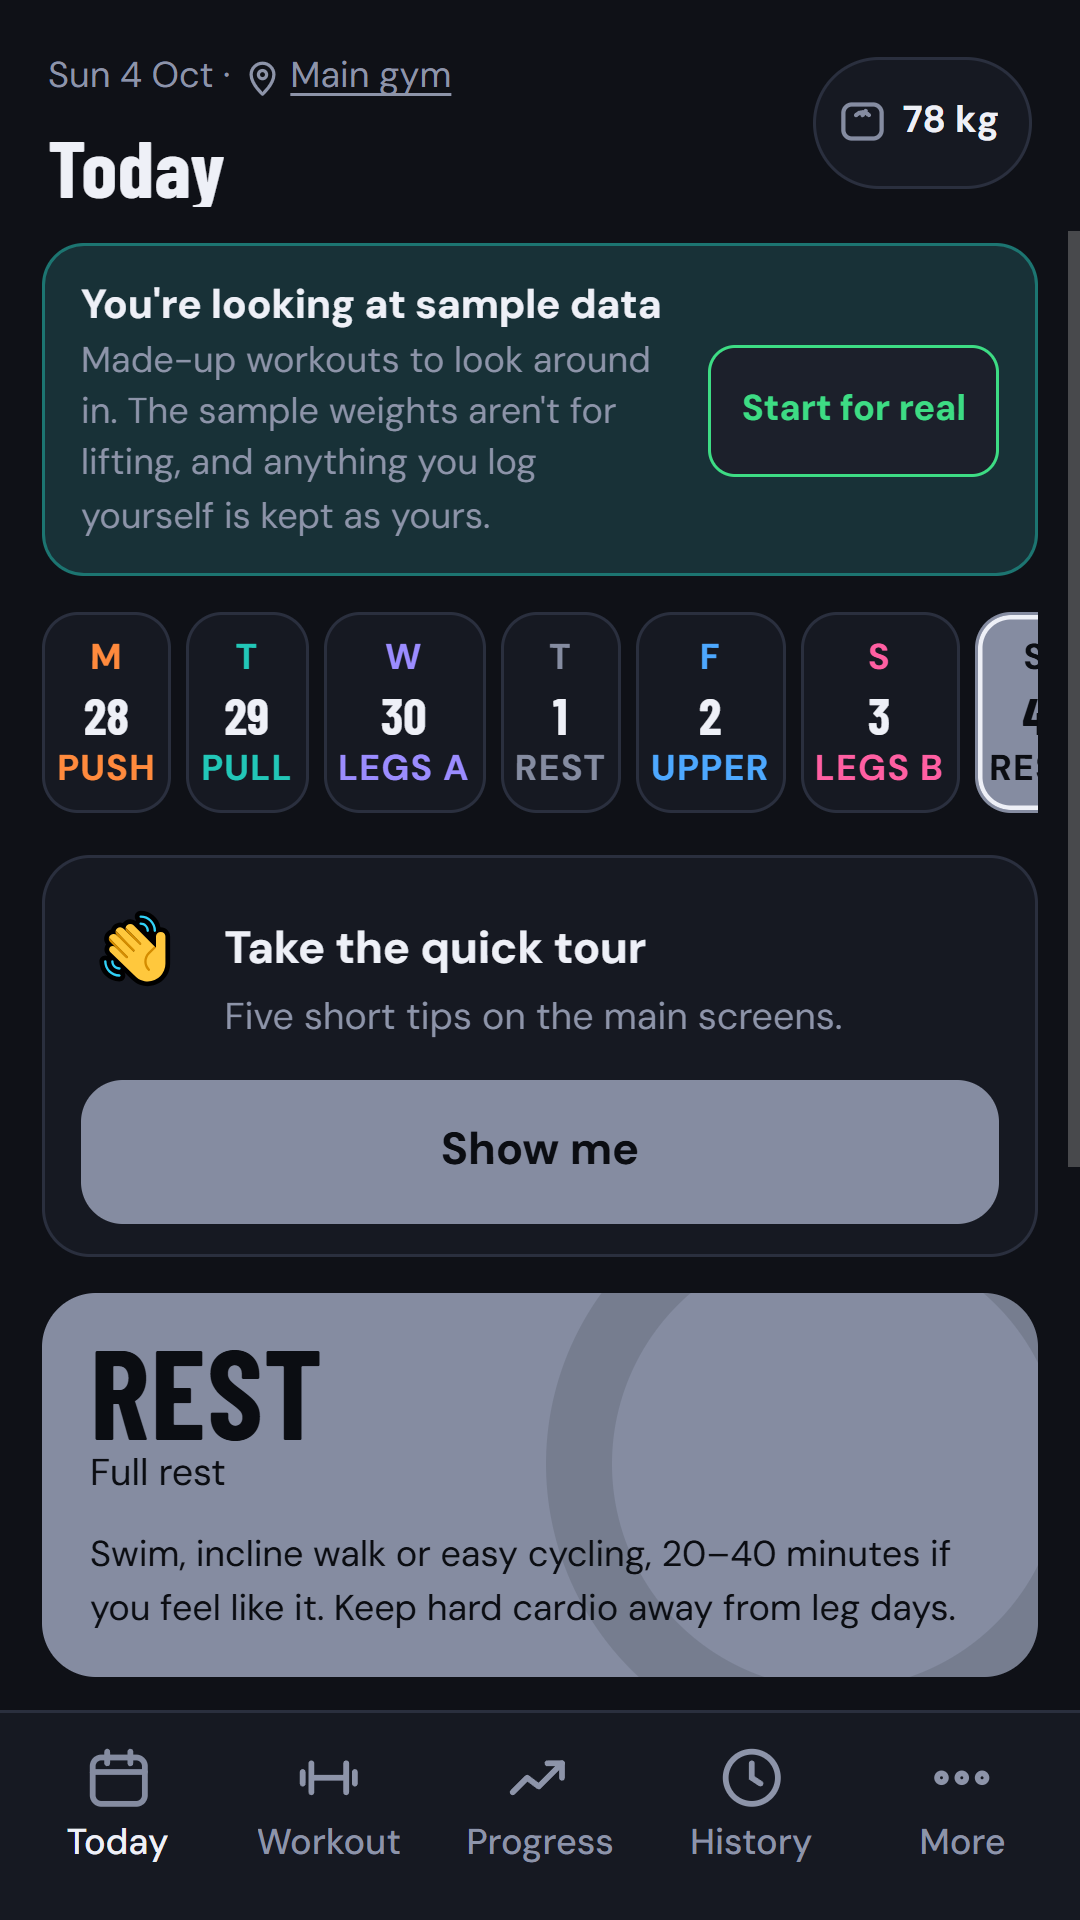
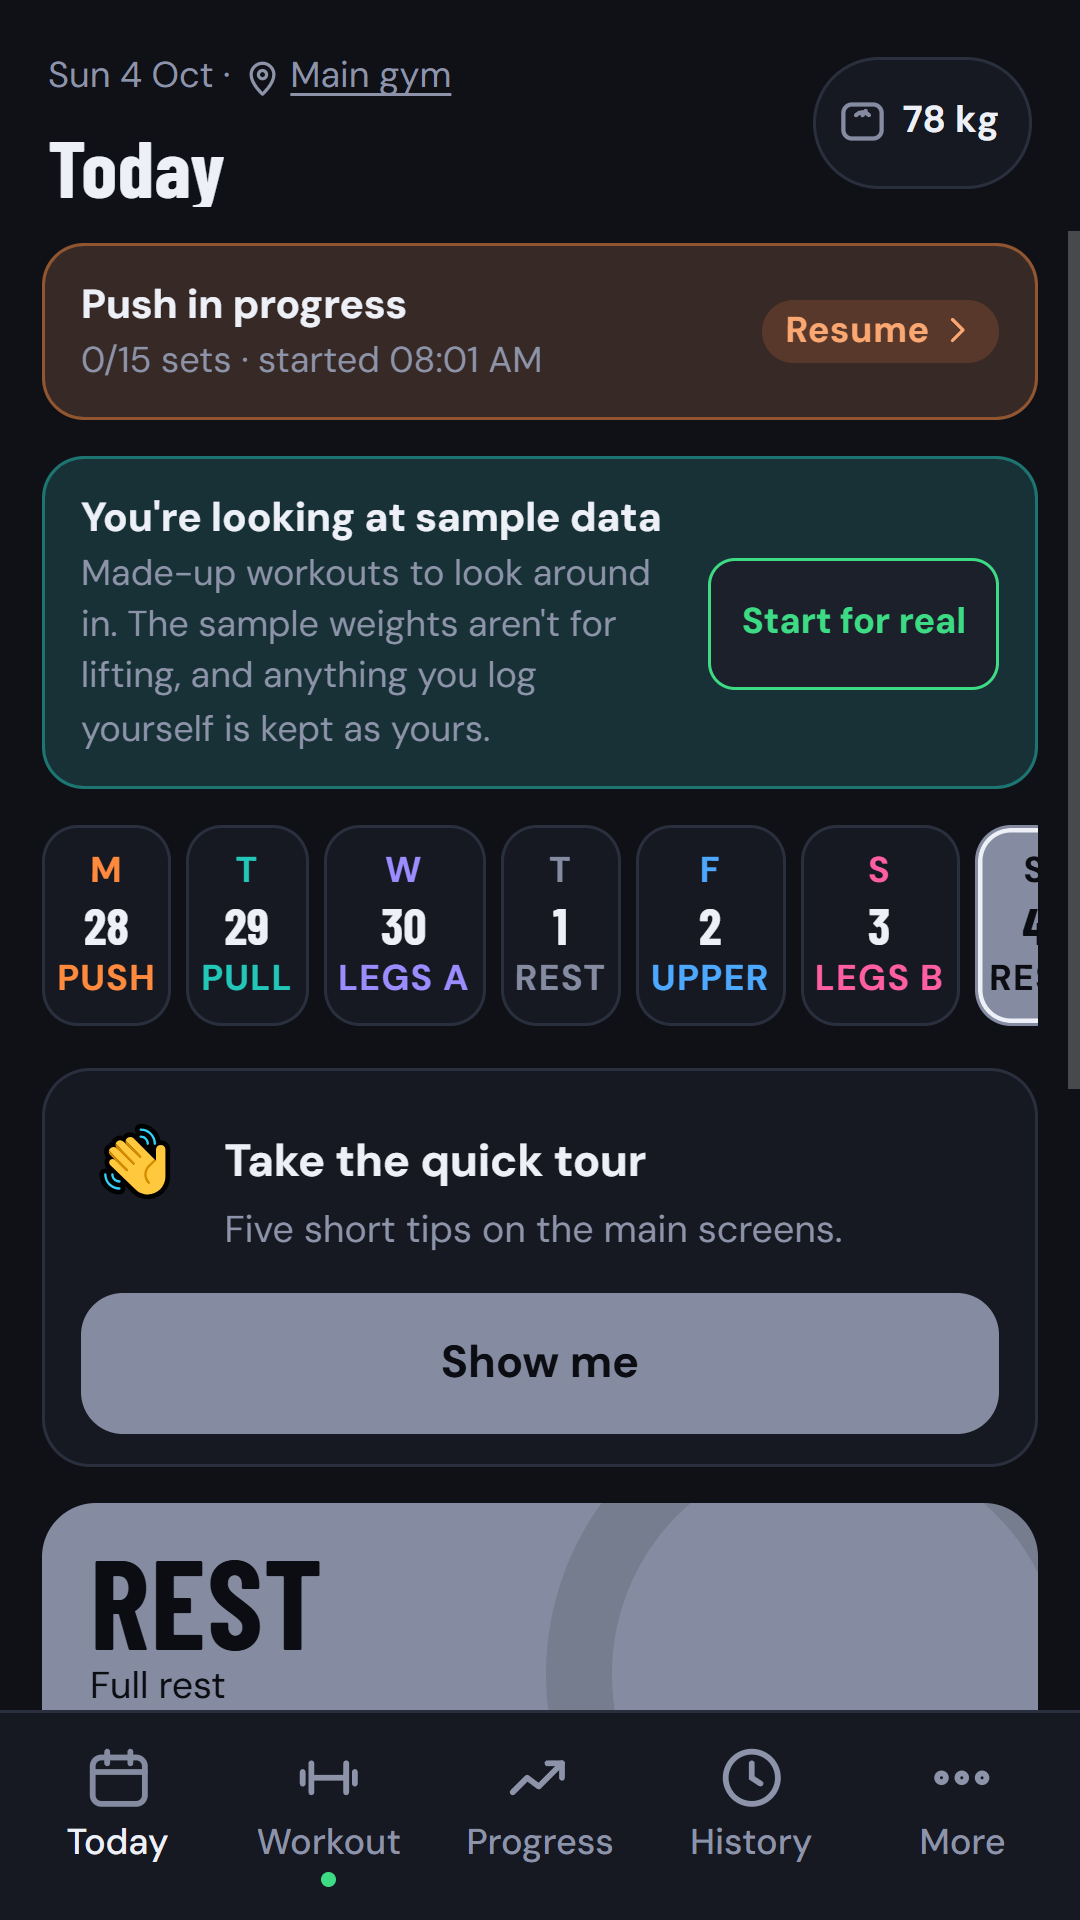
Prepare localized Play screenshots and Claude resume guide

diff --git a/js/views/more.js b/js/views/more.js
@@ -643,7 +643,7 @@ function paletteRow(st) {
   const sw = (id, name, s) => `<button class="palsw" data-act="st-palette" data-v="${id}" aria-pressed="${cur === id}"><i aria-hidden="true" style="background:${s[0]}"><b style="background:${s[1]}"></b></i><span>${name}</span></button>`;
   const own = okMine(st.myPalette) ? paletteFor({ appPalette: 'mine', myPalette: st.myPalette }) : paletteFor(st);
   const pick = (i, label) => `<label class="rrow"><span>${label}</span><input type="color" data-input="st-mine" data-i="${i}" value="${st.myPalette[mode][i].toLowerCase()}"></label>`;
-  return `<div class="stack"><span class="lbl">Colours</span><div class="pals" role="group" aria-label="Colours">
+  return `<div class="stack"><span class="lbl">Colours</span><div class="pals" role="group" aria-label="Colours" data-ctx="palette">
     ${Object.entries(PALETTES).map(([id, p]) => sw(id, p.name, p[mode])).join('')}${sw('mine', 'Mine', own[mode])}</div>
     ${mine ? `${pick(0, 'Background')}${pick(1, 'Cards')}<p class="fine">${mode === 'dark' ? 'These are for the dark theme. Switch the theme to Light to set its colours too.' : 'These are for the light theme. Switch the theme to Dark to set its colours too.'} Text stays readable on whatever you pick.</p>` : ''}</div>`;
 }

diff --git a/js/i18n/ja.js b/js/i18n/ja.js
@@ -1033,6 +1033,7 @@ export default {
 "Middle trapezius": "僧帽筋中部",
 "Middle traps (middle trapezius)": "僧帽筋中部",
 "Midnight": "0:00",
+"palette:Midnight": "ミッドナイト",
 "Minutes": "分",
 "Minutes per week": "週あたりの分数",
 "Missed-workout reminders": "休んだトレーニングのお知らせ",

diff --git a/HANDOFF.md b/HANDOFF.md
@@ -1,5 +1,76 @@
 # Capacitor Android migration — 2026-10-04
 
+## Claude: resume here
+
+Android **1.11.0 / versionCode 2** is already published to Play **internal testing**.
+GitHub main, the updated privacy page and the startup mockup are published too.
+Local branch: `fix-welcome`. Code checkpoint: `579df86`; internal publication notes: `9df3300`.
+Subsequent handoff commits change documentation only. Read this section before the historical
+implementation checkpoints below, which contain earlier test counts and in-progress notes.
+
+### Approval scope and storage promise
+
+- User approved GitHub/Pages publication and Play internal testing only. They separately approved
+  Google's policy and US export declarations when creating the app. **Closed/open testing and
+  production submission are not authorised.** Do not modify Tally or send invitations/messages.
+- Android workouts use **app-private SQLite**, not browser persistent storage. Clearing browser
+  cache/data, uninstalling a browser, or clearing we go gim's **cache** does not erase workouts.
+  Uninstalling **we go gim**, Android **Clear storage/data**, a phone reset or device loss can.
+  Browser uninstallation itself was not performed; its data is separate by architecture.
+- Website/PWA/TWA data still uses separate browser storage. Export JSON there and restore it
+  in Android. Android cloud backup is disabled; exported backups omit progress photos.
+- Native SQLite migration retains original sources, commits its marker transactionally and
+  stops on errors. Never introduce a silent browser fallback or seed empty history after failure.
+
+### Where to continue, in order
+
+1. Verify installation through the internal tester link with an eligible Google account, then
+   check the Play-delivered app. Hardware evidence so far uses the separate development APK.
+   Never uninstall an existing app or clear its data to bypass a signing mismatch.
+2. Finish store listing and app-content **drafts**: official icon, prepared description/screenshots/
+   feature graphic, published privacy URL, Data safety, health declaration, content rating,
+   target audience, no ads and unrestricted app access. These are not submitted for public review.
+   Optional Google Forms feedback sends text, optional contact and basic app information;
+   do not declare blanket "no data collected." Use exact Console wording and source evidence.
+3. Check Play pre-launch reports when available and fix actual findings. Do not call a pending
+   report passed. Current verification: **560 unit tests, 27 browser tests, 900 active-workout
+   layout cases and 15 real Samsung smoke checks** passed; hardware coverage is one phone.
+4. Fixes need a **versionCode greater than 2**, appropriate tests, a new signed build and an
+   internal rollout. Do not upload changed bytes with code 2. Commit checkpoints and update this file.
+5. Obtain authority before closed/open testing or production. This account requires **12 closed
+   testers continuously opted in for 14 days**, then an application for production access and
+   Google review. The nine-account internal list does not meet or count toward that requirement.
+
+### Links, artifacts and practical pickup notes
+
+- Internal opt-in: https://play.google.com/apps/internaltest/4700623995534838864
+- Console: https://play.google.com/console/u/1/developers/8815481908048608009/app/4974756118756386209/tracks/4700623995534838864?tab=releases
+- Mockup: https://fir1412.github.io/we-go-gim/mockups/welcome.html
+- Privacy: https://fir1412.github.io/we-go-gim/privacy.html
+- Play visibly showed **Active / Available to internal testers**. Beta Testers (nine accounts)
+  was selected and saved; no invitations were sent. The unreviewed listing uses a temporary
+  package-name title. Play said installation can take up to an hour, occasionally longer.
+- Uploaded AAB: `output/release/we-go-gim-1.11.0.aab`, SHA256
[1 lines of base64/hex data omitted]
+- APK: `output/release/we-go-gim-1.11.0.apk`, SHA256
[1 lines of base64/hex data omitted]
+- `output/` is gitignored and stays on this PC. Another checkout must rebuild artifacts and
+  regenerate evidence. Logs/results: `output/final-unit-tests.log`, `output/final-e2e.log`,
+  `output/compatibility/layout.json`, `output/phone/results.json`,
+  `output/phone/storage-results.json` and `output/phone/native-data.png`.
+- Build instructions: `release/README.md`. Signing keys/passwords remain outside the repo at
+  `C:/Users/user/wegogim-android-keys`; never print or commit them. Upload signing and Play app
+  signing can differ. The `.dev` package is for synthetic tests, not production-data experiments.
+- `mockups/welcome.html` is a design preview, not the live onboarding redesign. The live welcome
+  adds explicit website-to-Android backup restoration. Keep that distinction in release claims.
+- Training reminders renew only the next 28 days on app visits/changes. Screen-off rest delivery
+  was observed, but screen illumination was not verified or guaranteed. Preserve those limits.
+- The bank has 1,000 composed **English drafts**, not 1,000 translations. Other supported
+  languages use a localized short default or custom text. Review sources in `content/reminders/`.
+- Official artwork: `icons/official-source.jpg`; preserve the drawing and orientation.
+- Graphify's commit hook rebuilds the graph automatically. Ponytail guidance favours existing
+  helpers and Android's built-in APIs. Review actual data-loss paths before simplifying them.
+
 Current work is on `fix-welcome`. User requested Capacitor conversion, Play preparation,
 Tally lessons, bug/phone checks, frequent commits. Also asked about screen-off rest alerts.
 

diff --git a/release/README.md b/release/README.md
@@ -22,22 +22,23 @@ Debug package `.dev` is for phone checks; never uninstall Play to sideload aroun
 
 ## Play Console preparation
 
-- Verify the highest uploaded versionCode before upload; use a larger value if2alreadyexists.
+- VersionCode 2 is already published internally. Every subsequent upload needs a larger code.
 - Verify the upload certificate matches the existing listing. Upload signing and Play app signing
   certificates normally differ. This native app needs no Digital Asset Links.
 - Upload the signed AAB to the intended test track. Check Play's supported device comparison:
   Android7minimum can reduce reach compared with the old TWA. Retain old bundle if needed.
 - Store icon: store-icon-512.png. Screenshots/feature graphic/listing text in this folder.
   Browser screenshots use synthetic sample data and are labeled as browser captures in evidence.
-- Privacy URL: https://fir1412.github.io/we-go-gim/privacy.html. Publish the updated native policy
-  before submitting. Local policy edits are not a website deployment.
+- Privacy URL: https://fir1412.github.io/we-go-gim/privacy.html. The native policy is published.
+  If changed later, publish and verify it before submitting related Play declarations.
 - Data safety: optional feedback collects feedback text, optional email/contact, and app information
   (version, phone/browser type, language, current screen) through Google Forms. No workout/body
   data collection, no ads/analytics. Do not answer "no data collected" while feedback exists.
 - Health declaration: fitness/activity tracking; no medical diagnosis or treatment claims.
 - Ads: no. App access: all accessible without login. Category: Health & Fitness. Support:
   fir1412dev@gmail.com. Audience13+asstatedinterms; answer forms after reviewing their exact wording.
-- New personal accounts may need12testerscontinuously14days; confirm Console's requirement.
+- This account's Console confirms 12 closed testers continuously opted in for 14 days.
+  Internal testing does not satisfy that production-access requirement.
 - Notification/alarm access is optional; no restricted USE_EXACT_ALARM or full-screen-intent permission.
 - PDF import downloads its reader from cdnjs on first use; core workout flows are packaged/offline.
 

diff --git a/CLAUDE.md b/CLAUDE.md
@@ -1,0 +1,22 @@
+# Claude pickup guide
+
+Read [HANDOFF.md](HANDOFF.md), starting with **Claude: resume here**. It records current
+publication status, user approvals, verified checks, evidence and remaining work in order.
+Older sections preserve historical checkpoints; the opening resume section takes precedence.
+
+- Capacitor Android **1.11.0 / versionCode 2** is active in Play internal testing.
+- GitHub main and Pages are published. Working branch is `fix-welcome`.
+- User authorised GitHub/Pages and internal testing; closed/open/production releases require
+  further authority. Do not modify Tally or send invitations/messages.
+- Android workouts use **app-private SQLite**, not browser persistent storage. Website data
+  remains separate. Preserve migration sources and fail visibly on storage errors.
+- Never uninstall an existing app or clear its data to bypass signing problems. Use the
+  separate `.dev` package for synthetic phone tests.
+- Next Android upload needs **versionCode > 2**. Keep keys/passwords out of Git and tool output.
+  `output/` has local evidence/artifacts and is gitignored; another checkout must regenerate it.
+- Official artwork is `icons/official-source.jpg`; reuse it without redrawing or rotation.
+- Commit useful checkpoints, update the handoff and continue within existing approvals.
+
+Build/release commands: [release/README.md](release/README.md).
+Welcome/startup design preview: [mockups/welcome.html](mockups/welcome.html).
+Reminder drafts and writing guidance: [content/reminders/VOICE.md](content/reminders/VOICE.md).
